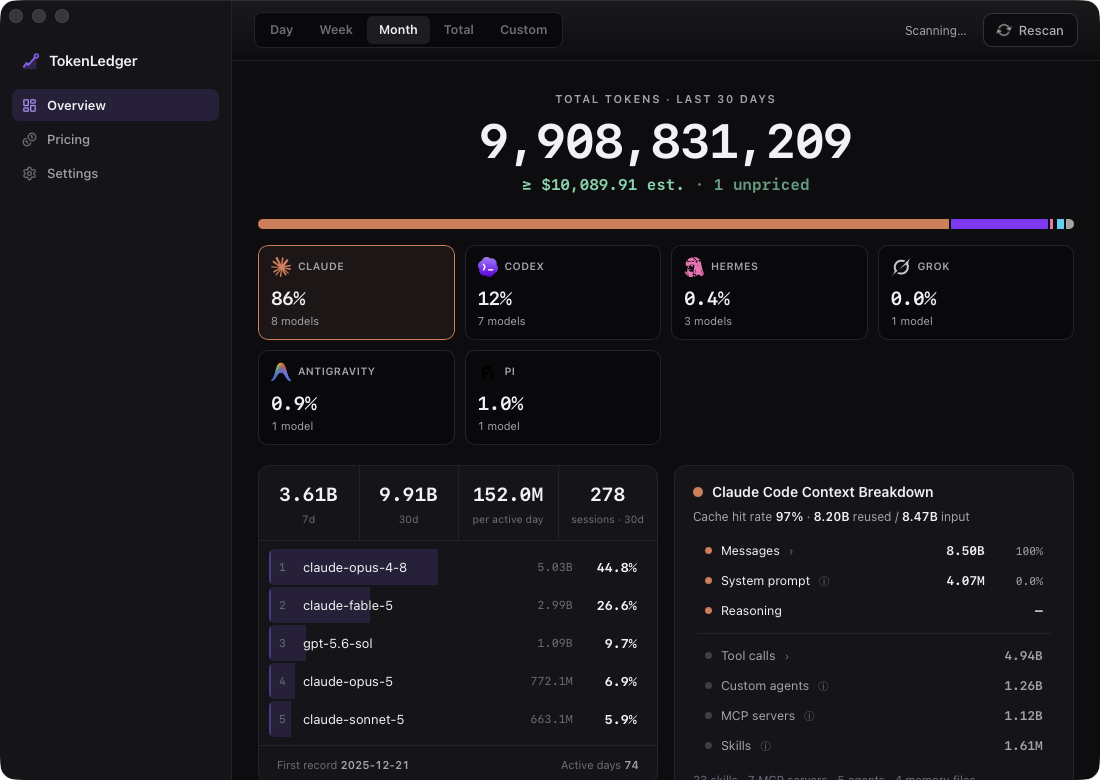
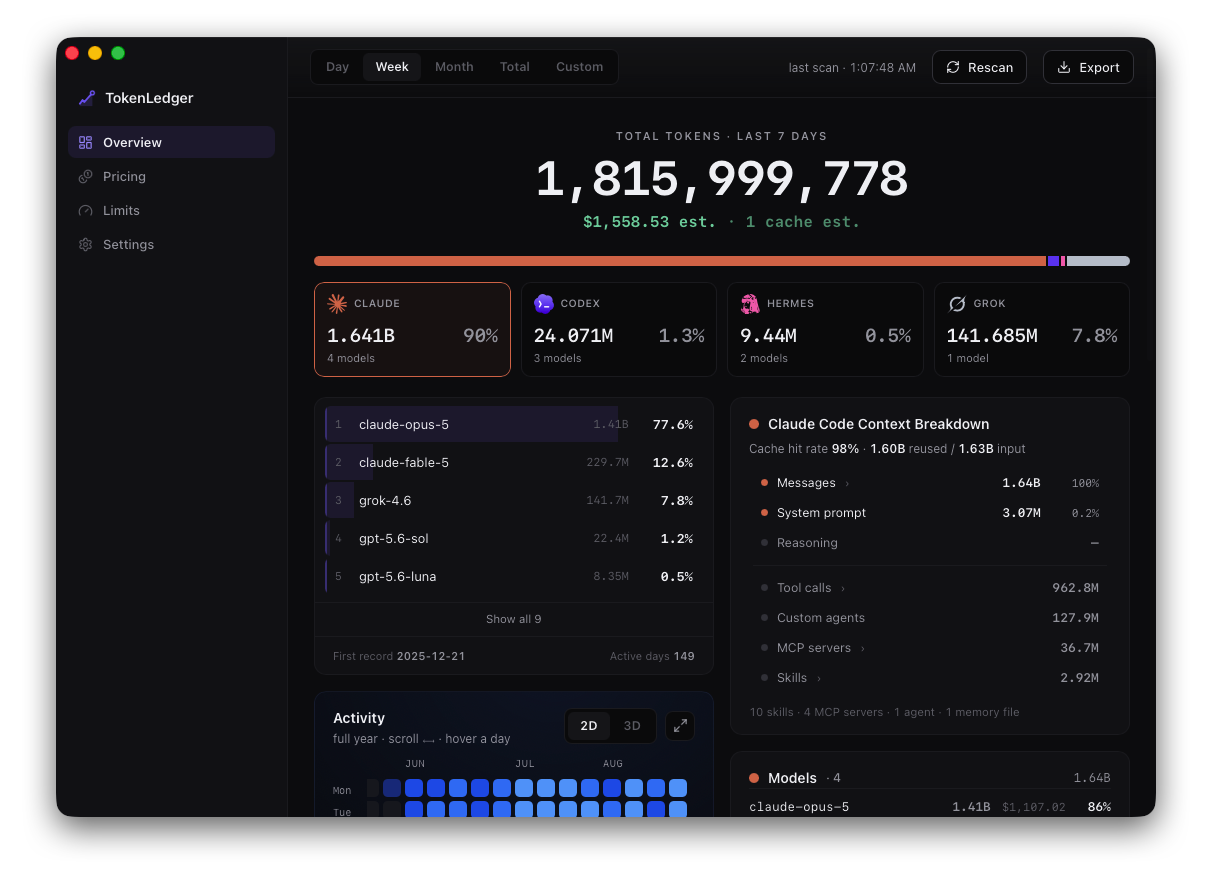
Update README for 0.4.0

diff --git a/README.md b/README.md
@@ -2,9 +2,10 @@
 
 A desktop app (Tauri v2) for macOS, Windows, and Linux that tracks token usage
 and estimated cost across the AI coding agents and assistants on your machine —
-**Claude Code**, **Codex CLI**, **Gemini CLI**, **Hermes**, **Grok Build**,
-**Google Antigravity**, **Goose**, **OpenCode**, **Cline**, **Kilo**, **Zed**, **pi**, **WorkBuddy**, and **CodeBuddy** — by parsing each tool's local logs into a
-normalized SQLite ledger.
+**Claude Code**, **Codex CLI**, **GitHub Copilot**, **Gemini CLI**, **Hermes**,
+**Grok Build**, **Google Antigravity**, **Goose**, **OpenCode**, **Cline**,
+**Kilo**, **Zed**, **pi**, **Oh My Pi**, **WorkBuddy**, **CodeBuddy**, and
+**Qoder** — by parsing each tool's local logs into a normalized SQLite ledger.
 
 **Status: 0.4.0.** Driven daily on macOS. Windows and Linux build and pass the
 full test suite in CI (run on demand), but have had no real-world use yet —
@@ -25,8 +26,9 @@ expect rough edges there, and please report them.
 - **Where the context went** — not just how many tokens, but what they were:
   messages, system prompt, and reasoning, with tool calls, subagents, MCP
   servers, and skills broken out beneath them, down to which tools and which
-  Bash commands. Reported for Claude Code, Codex, and pi; the sub-figures are
-  size estimates, labeled as such, while the headline splits are exact.
+  Bash commands. Reported for Claude Code, Codex, Grok Build, pi, Oh My Pi,
+  and Qoder; the sub-figures are size estimates, labeled as such, while the
+  headline splits are exact.
 - **Estimated cost** from public API list prices (LiteLLM's pricing
   database), with a bundled offline snapshot and user-editable per-model
   price overrides for self-hosted models (entered as `$ / 1M tokens`).
@@ -35,9 +37,8 @@ expect rough edges there, and please report them.
   default), so once ingested, history is retained even after the originals
   are gone.
 - **Always at hand** — a Menu Bar Extra carries today's tokens and cost beside
-  its icon, and the panel behind it reads out a window you pick (today,
-  yesterday, or the trailing 30 days). Closing the window leaves TokenLedger
-  running so it keeps capturing.
+  its icon, with the detail one click away. Closing the window leaves
+  TokenLedger running so it keeps capturing.
 
 Cost is labeled *at API list prices — not billed*: every source here is
 subscription, free-tier, or self-hosted, so the number is an estimate, not
@@ -48,8 +49,19 @@ an invoice.
 | Tab | What's on it |
 |---|---|
 | **Overview** | Everything above, over a date window and source selection you choose — plus **Export** (the whole selected window written to one sectioned CSV), **Trend** (enlarges into its own window, bucket size, and per-bucket CSV export), **Activity** (a 12-month heatmap that enlarges into a rotatable 3D landscape), and **Profile** (the window's models ranked across every source, top five with the rest one click away). Activity deliberately ignores the date window and source selection; Profile follows the window but never the source selection. |
+| **Limits** | Vendor usage windows as percentages used or left, with reset times. Live checks for Claude, Codex, Copilot, Grok, and Antigravity require a one-time opt-in, reuse each tool's saved sign-in, and run when you open the tab or press **Refresh**. |
 | **Pricing** | Every model seen in the ledger with its resolved list price, the catalog it came from, and any override you've set |
-| **Settings** | Theme (system / light / dark), language (English / 繁體中文), display currency at a fixed exchange rate, launch at login, auto-update checks, the scan interval, and **Custom range presets** — up to four of your own beside the four that ship, each a rolling *last N days* or a completed calendar period. Add one, reorder them by dragging (or with the arrows), retype a rolling one's day count, remove any; each row shows the dates it currently resolves to, and the picker lists them in the order you put them in |
+| **Settings** | Theme (system / light / dark), language (English / 繁體中文), display currency at a fixed exchange rate, launch at login, window and Menu Bar Extra scan intervals, panel limit-card visibility/order and collapsed meters, daily update checks with in-app or OS notices plus download/restart controls, and **Custom range presets** — up to four of your own beside the four that ship, each a rolling *last N days* or a completed calendar period. Add one, reorder them by dragging (or with the arrows), retype a rolling one's day count, remove any; each row shows the dates it currently resolves to, and the picker lists them in the order you put them in. |
+
+## Menu Bar Extra
+
+Choose today, yesterday, or the trailing 30 days. The panel shows tokens, cost,
+change from the previous period, source and model breakdowns, hourly trend,
+cache hit, and requests. Vendor limit cards show remaining windows and reset
+times; Settings controls which cards and collapsed meters appear, and the order
+they stack.
+
+![TokenLedger's Menu Bar Extra showing yesterday's usage, model breakdown, and live limit cards](docs/menu-bar-extra.png)
 
 ## Install
 
@@ -99,9 +111,10 @@ OpenRouter's model list for pricing, and the GitHub release manifest for
 updates. One optional feature reaches further and asks first: enabling **live
 limit checks** on the Limits tab runs a separate companion process that presents
 the sign-in each tool already stores to its own vendor — Claude Code's to
-`api.anthropic.com`, Codex's to `chatgpt.com`, Grok's to `cli-chat-proxy.grok.com`,
-Antigravity's to Google — read-only, only when you open that page or press
-Refresh, never on a timer, to ask how much of each rolling window you have used.
+`api.anthropic.com`, Codex's to `chatgpt.com`, Copilot's to `api.github.com`,
+Grok's to `cli-chat-proxy.grok.com`, Antigravity's to Google — read-only, only
+when you open that page or press Refresh, never on a timer, to ask how much of
+each rolling window you have used.
 Until you press that button, no credential is read and no authenticated request
 exists, and **no companion ever writes your sign-in files.** Most present a
 still-valid token untouched. Two may need a fresh one first: Antigravity's Google
@@ -119,6 +132,7 @@ asking Grok live, accepted deliberately
 |---|---|---|
 | [Claude Code](https://claude.com/claude-code) | Anthropic's CLI coding agent | `~/.claude/projects/**/*.jsonl` |
 | [Codex CLI](https://github.com/openai/codex) | OpenAI's CLI coding agent | `~/.codex/sessions/**/rollout-*.jsonl`, plus `$CODEX_HOME/sessions/**/rollout-*.jsonl` when visible |
+| GitHub Copilot | GitHub's AI coding assistant | `~/.copilot/session-store.db`, or `$COPILOT_HOME/session-store.db` when configured |
 | [Gemini CLI](https://github.com/google-gemini/gemini-cli) | Google's CLI coding agent | `~/.gemini/tmp/*/chats/session-*.json` |
 | [Hermes](https://github.com/NousResearch/hermes-agent) | Nous Research's self-improving agent | `~/.hermes/state.db` (opened read-only) |
 | [Grok Build](https://github.com/xai-org/grok-build) | Coding agent harness and TUI | `$GROK_HOME/sessions/**/updates.jsonl` (fallback `~/.grok/sessions/**/updates.jsonl`), plus `$GROK_HOME/logs/unified.jsonl` for the credit-pool Limit |
@@ -129,8 +143,10 @@ asking Grok live, accepted deliberately
 | [Kilo](https://kilocode.ai) | Kilo Code CLI | `~/Library/Application Support/kilo/kilo.db` on macOS; `~/.local/share/kilo/kilo.db` on Linux; `%LOCALAPPDATA%\\kilo\\kilo.db` on Windows; `$KILO_DB` when overridden |
 | [Zed](https://zed.dev) | Zed Editor's hosted agent | `~/Library/Application Support/Zed/threads/threads.db` on macOS; `~/.local/share/zed/threads/threads.db` on Linux; `%LOCALAPPDATA%\\Zed\\threads\\threads.db` on Windows; XDG and Flatpak data-home branches on Linux |
 | [pi](https://github.com/earendil-works/pi) | Agent toolkit — unified LLM API, agent loop, TUI, coding agent CLI | `~/.pi/agent/sessions/**/*.jsonl` |
+| Oh My Pi | Coding agent | `~/.omp/agent/sessions/**/*.jsonl`, plus `OMP_SESSION_DIR` or `<OMP_AGENT_DIR>/sessions` when configured |
 | WorkBuddy | Desktop AI assistant | `~/.workbuddy/projects/**/*.jsonl` |
 | CodeBuddy | CLI, IDE, and VS Code plugin coding agent | `~/.codebuddy/projects/**/*.jsonl` |
+| Qoder | AI coding IDE and CLI | Qoder/QoderCN application databases, plus `~/.qoder{,-cli,-cn}/projects/**/*.jsonl` |
 
 For the JSONL Sources discovered by the shared recursive walk — Claude Code,
 Codex CLI, pi, Oh My Pi, WorkBuddy, CodeBuddy, Qoder — a configured root may
